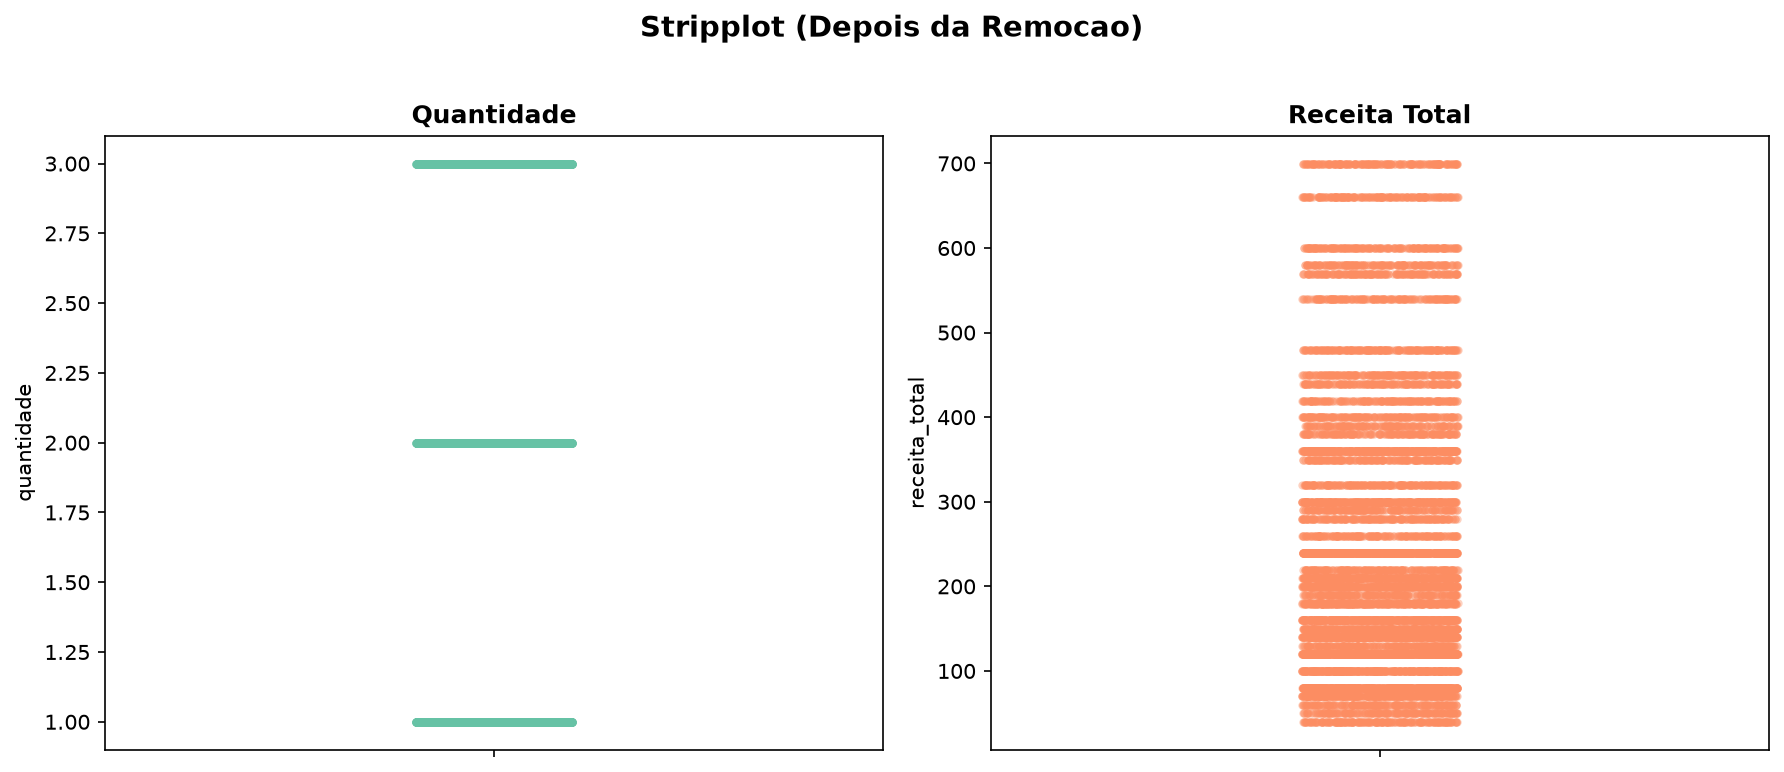
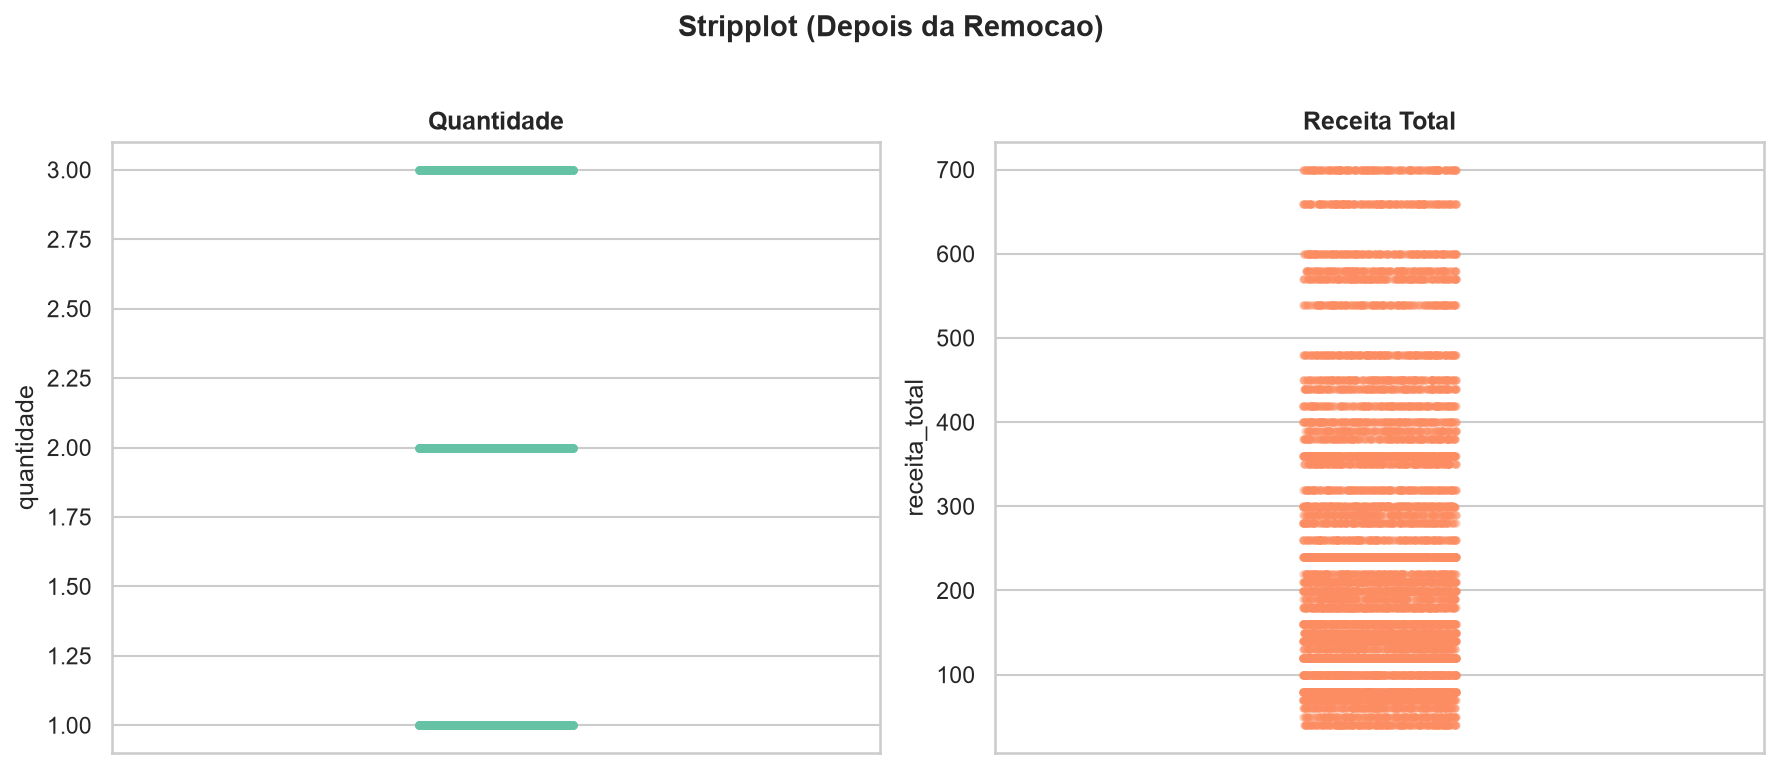
fix: np.select default + RF9 criação classe autocontida e RF12 proximos passos + estrutura README atualizada

diff --git a/README.md b/README.md
@@ -64,24 +64,33 @@ Praticar os principais conceitos:
 
 ## Estrutura do projeto
 ```
-projeto/
+mini-projeto_dataview/
+├── .gitignore
+├── README.md
 ├── data/
-│   ├── raw/                      # Dataset bruto gerado (vendas.csv)
+│   ├── raw/
+│   │   └── vendas.csv                  # Dataset bruto gerado (RF01)
 │   ├── processed/
-│   │   ├── v1_com_outliers/      # Limpeza geral, outliers mantidos
-│   │   └── v2_outliers_tratado/  # Limpeza v1 + tratamento de outliers (IQR)
-│   └── final/                    # Dataset final (data/final/vendas_final.csv)
+│   │   ├── v1_com_outliers/
+│   │   │   └── vendas_v1.csv           # Limpeza geral, outliers mantidos (RF03)
+│   │   └── v2_outliers_tratado/
+│   │       └── vendas_v2.csv           # v1 + tratamento de outliers IQR (RF04)
+│   └── final/
+│       └── vendas_final.csv            # Dataset final com colunas derivadas (RF12)
 ├── notebooks/
-│   └── dataview.ipynb            # Notebook principal de EDA
+│   └── dataview.ipynb                  # Notebook principal — classe DataViewPipeline (RF01-RF12)
 ├── outputs/
-│   ├── metricas_por_mes.csv
-│   ├── segmentacao_clientes.csv
-│   ├── estatisticas_gerais.json
+│   ├── metricas_por_mes.csv            # Métricas agregadas por mês (RF11)
+│   ├── segmentacao_clientes.csv        # Segmentação Bronze/Prata/Ouro (RF11)
+│   ├── estatisticas_gerais.json        # Estatísticas NumPy (RF11)
 │   └── graficos/
-│       ├── receita_por_mes.png
-│       ├── top_produtos.png
-│       └── dist_regiao.png
-└── README.md
+│       ├── receita_por_mes.png         # Gráfico de linha — tendência mensal (RF09)
+│       ├── top_produtos.png            # Gráfico de barras — top 5 produtos (RF09)
+│       ├── dist_regiao.png             # Boxplot — distribuição por região (RF09)
+│       ├── stripplot_antes.png         # Stripplot antes da remoção de outliers (RF04)
+│       ├── stripplot_depois.png        # Stripplot depois da remoção de outliers (RF04)
+│       ├── stripplot_com_outliers.png  # Stripplot v1 com outliers (RF04)
+│       └── stripplot_sem_outliers.png  # Stripplot v2 sem outliers (RF04)
 ```
 
 ## Decisão sobre v1 vs v2